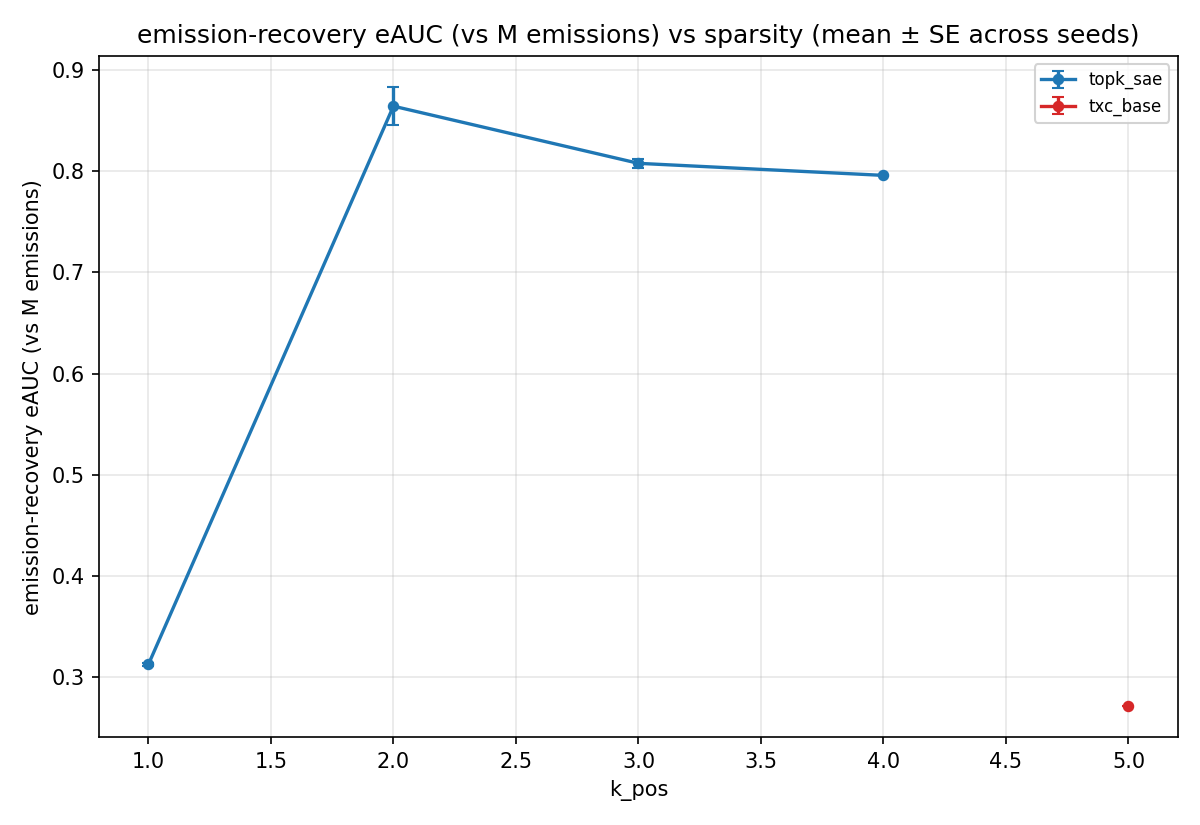
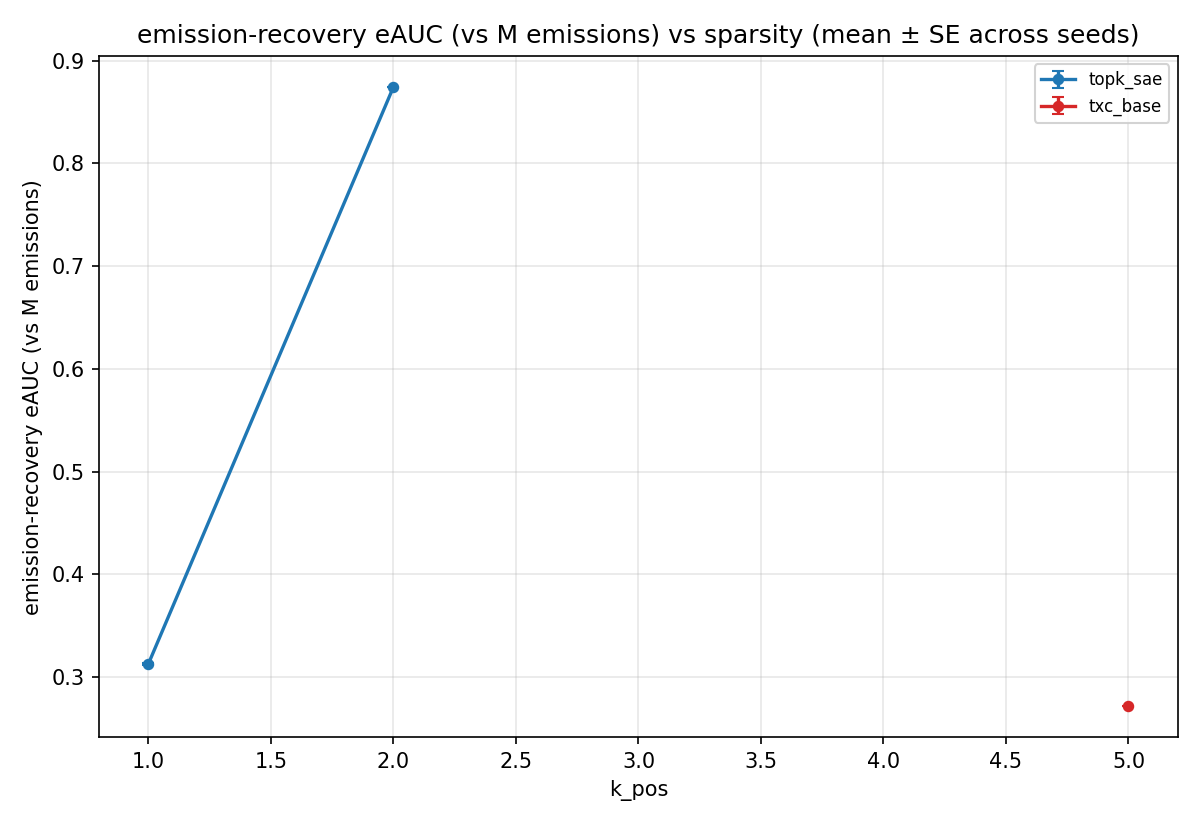
c1+c2 paper auto: refresh synthetic bundles (c1=, c2= leaderboard rows)
Auto-generated by purified/scripts/synthetic_paper_renderer.py.
Inputs: results/leaderboard.jsonl filtered to component in (c1,c2)
with eval_cfg._full_suite=true (the c{1,2}_synthetic_*_full driver flag).

diff --git a/purified/docs/components/c2_paper_results.md b/purified/docs/components/c2_paper_results.md
@@ -1,6 +1,6 @@
 # C2 Synthetic Coupled — paper-ready results (auto-generated)
 
-_Last refreshed: 2026-05-06T17:25:51+00:00_
+_Last refreshed: 2026-05-06T18:30:33+00:00_
 
 ## Setup
 
@@ -10,13 +10,13 @@ _Last refreshed: 2026-05-06T17:25:51+00:00_
 - Companion: eAUC — recovery of the M=20 emission directions.
 - Driver: `experiments/c2_synthetic_coupled_full/run.py` (isolated `act_cache_key` via `temp_bench.data.toy_full.api:coupled_hmm`).
 
-Currently 12 cells across 2 (arch, T) configurations; seeds-per-cell range = [1, 3].
+Currently 5 cells across 2 (arch, T) configurations; seeds-per-cell range = [1].
 
 ## gAUC headline (peak gAUC over k_pos)
 
 | arch | T | k\* | gAUC (mean ± SE) | n seeds |
 |------|---|----|---------------------------|---------|
-| `topk_sae` | — | 2 | 0.990 ± 0.000 | 3 |
+| `topk_sae` | — | 2 | 0.990 ± 0.000 | 1 |
 | `txc_base` | — | 5 | 0.320 ± 0.000 | 1 |
 
 ![c2_gauc_vs_k](c2_paper_assets/c2_gauc_vs_k.png)
@@ -25,21 +25,21 @@ Currently 12 cells across 2 (arch, T) configurations; seeds-per-cell range = [1,
 
 | arch | T | k\* | eAUC (mean ± SE) | n seeds |
 |------|---|----|---------------------------|---------|
-| `topk_sae` | — | 2 | 0.864 ± 0.019 | 3 |
+| `topk_sae` | — | 2 | 0.874 ± 0.000 | 1 |
 | `txc_base` | — | 5 | 0.271 ± 0.000 | 1 |
 
 ![c2_eauc_vs_k](c2_paper_assets/c2_eauc_vs_k.png)
 
 ## Per-cell mean — gAUC
 
-| arch (T) | k=1 | k=2 | k=3 | k=4 | k=5 |
-|---|---|---|---|---|---|
-| `topk_sae` | 0.446 | 0.990 | 0.990 | 0.990 | — |
-| `txc_base` | — | — | — | — | 0.320 |
+| arch (T) | k=1 | k=2 | k=5 |
+|---|---|---|---|
+| `topk_sae` | 0.446 | 0.990 | — |
+| `txc_base` | — | — | 0.320 |
 
 ## Per-cell mean — eAUC
 
-| arch (T) | k=1 | k=2 | k=3 | k=4 | k=5 |
-|---|---|---|---|---|---|
-| `topk_sae` | 0.313 | 0.864 | 0.808 | 0.796 | — |
-| `txc_base` | — | — | — | — | 0.271 |
+| arch (T) | k=1 | k=2 | k=5 |
+|---|---|---|---|
+| `topk_sae` | 0.313 | 0.874 | — |
+| `txc_base` | — | — | 0.271 |

diff --git a/purified/docs/components/c1_paper_results.md b/purified/docs/components/c1_paper_results.md
@@ -1,6 +1,6 @@
 # C1 Synthetic TopK — paper-ready results (auto-generated)
 
-_Last refreshed: 2026-05-06T17:25:51+00:00_
+_Last refreshed: 2026-05-06T18:30:32+00:00_
 
 ## Setup
 
@@ -9,13 +9,13 @@ _Last refreshed: 2026-05-06T17:25:51+00:00_
 - Metric: feature-recovery AUC against the 20 ground-truth orthogonal directions (per-feature max cosine ≥ τ, integrated over τ ∈ [0, 1]).
 - Driver: `experiments/c1_synthetic_topk_full/run.py` (routes through `temp_bench.data.toy_full.api`, isolated from agent_filler's `toy_markov_n20_d40` cache via distinct `act_cache_key`).
 
-Currently 17 cells across 2 (arch, T) configurations; seeds-per-cell range = [1, 3].
+Currently 7 cells across 2 (arch, T) configurations; seeds-per-cell range = [1, 3].
 
 ## Headline (peak AUC over k_pos)
 
 | arch | T | k\* | AUC (mean ± SE) | n seeds |
 |------|---|----|---------------------------|---------|
-| `topk_sae` | — | 5 | 0.659 ± 0.001 | 3 |
+| `topk_sae` | — | 2 | 0.616 ± 0.001 | 3 |
 | `txc_base` | — | 5 | 0.606 ± 0.000 | 1 |
 
 ## AUC vs k_pos
@@ -24,7 +24,7 @@ Currently 17 cells across 2 (arch, T) configurations; seeds-per-cell range = [1,
 
 ## Per-cell mean (averaged across seeds)
 
-| arch (T) | k=1 | k=2 | k=3 | k=4 | k=5 | k=6 |
-|---|---|---|---|---|---|---|
-| `topk_sae` | 0.598 | 0.616 | 0.615 | 0.630 | 0.659 | 0.650 |
-| `txc_base` | — | — | — | — | 0.606 | — |
+| arch (T) | k=1 | k=2 | k=5 |
+|---|---|---|---|
+| `topk_sae` | 0.598 | 0.616 | — |
+| `txc_base` | — | — | 0.606 |
